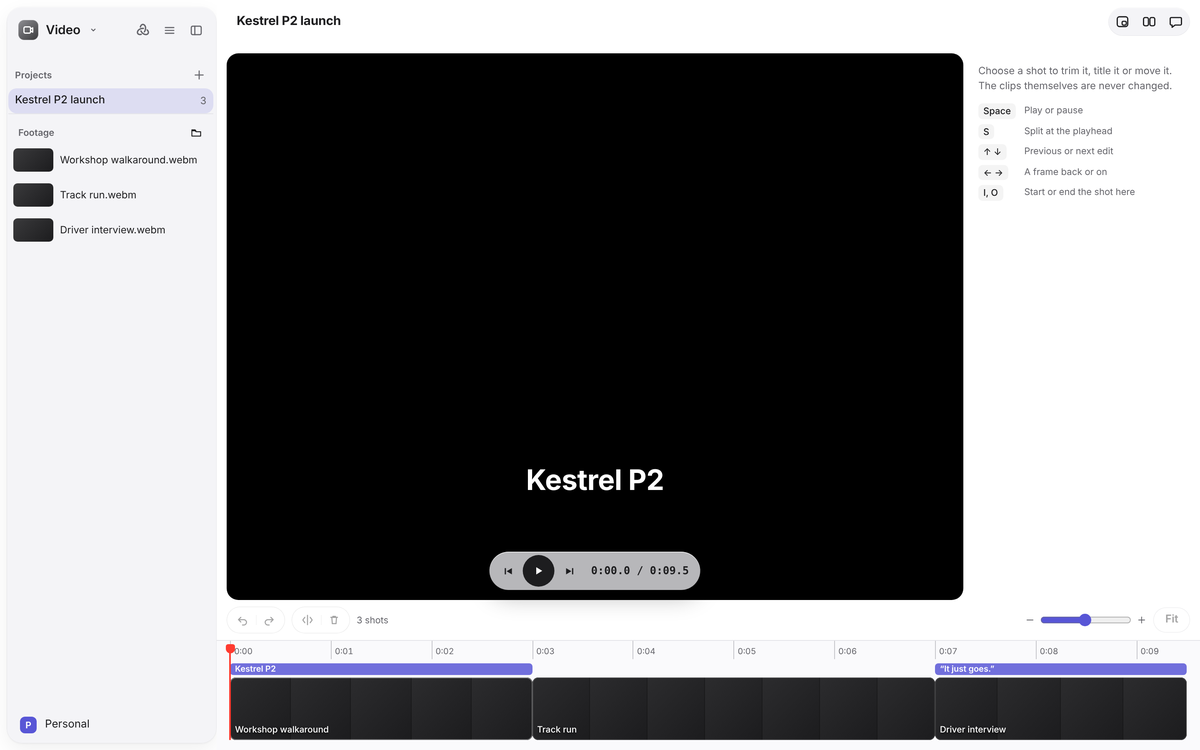
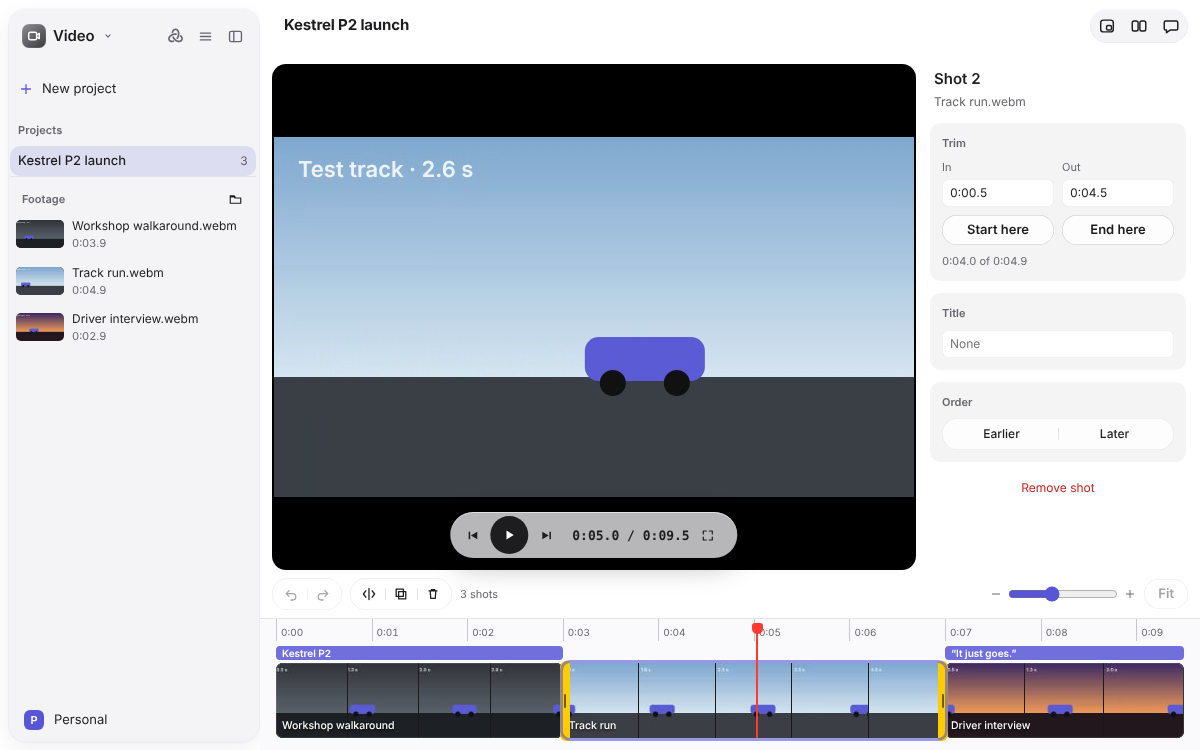
Video: right-click menus, Duplicate, timecode In and Out, full-screen play (#47)
* Video: right-click menus, Duplicate, timecode In and Out, full-screen play

- A shot's right-click menu: Split at the playhead, Duplicate, Add or Edit title,
  Move earlier or later, Remove shot, with their keys. Footage clips get one too.
- Duplicate a shot (Ctrl+D / Cmd+D, the menu, or the inspector).
- In and Out read and take timecode (0:02.5) or plain seconds; Enter or leaving
  the field sets it, Escape puts it back.
- Full screen for the viewer and its transport (F, or the button in the HUD).
- Unit tests for duplicateShot and parseTimecode; e2e covers the menu and fields.
- README screenshot and docs/apps/create.md updated.

Claude-Session: https://claude.ai/code/session_01VRGwo9YNE7aMEAh1Jt7qNZ

* Video: design review fixes (sentence-case headers, New project row, Order capsule)

- Inspector headers in sentence case, as in the sidebars and Home.
- Order is just Earlier and Later, as one two-segment capsule. Duplicate moves to
  the timeline's [split, duplicate, delete] capsule, and after Edit title in the
  shot menu.
- The sidebar starts with a New project row, then Projects, as other apps do.
- README screenshot retaken.

Claude-Session: https://claude.ai/code/session_01VRGwo9YNE7aMEAh1Jt7qNZ

---------

diff --git a/apps/desktop/src/Video.tsx b/apps/desktop/src/Video.tsx
@@ -1,14 +1,17 @@
 import { RowMark } from './RowMark';
 import { FromMobius } from './FromMobius';
 import { EmptyState } from './EmptyState';
-import { useCallback, useEffect, useMemo, useRef, useState, type DragEvent, type FormEvent, type PointerEvent as ReactPointerEvent, type ReactNode } from 'react';
+import { SideNew } from './SideNew';
+import { useCallback, useEffect, useMemo, useRef, useState, type DragEvent, type FormEvent, type MouseEvent as ReactMouseEvent, type PointerEvent as ReactPointerEvent, type ReactNode } from 'react';
+import { createPortal } from 'react-dom';
+import { ContextMenu, type ContextMenuItem } from './ContextMenu';
 import { changedShots, cutLength, locate, parseCut, shotLength, shotStart, timecode, type Cut, type Shot } from './cut-format';
 import { useFileReview } from './useFileReview';
 import type { VideoState } from './useVideo';
 import { ReviewActions, WhyThis } from './ReviewBar';
 import { onCommand } from './commands';
 import { emptyHistory, recorded, redone, undone, type History } from './photo-view';
-import { dropIndex, filmstrip, insertClip, moveShot, nextEdit, removeShot, rulerLabel, rulerMarks, splitAt, trimShot } from './video-view';
+import { dropIndex, duplicateShot, filmstrip, insertClip, moveShot, nextEdit, parseTimecode, removeShot, rulerLabel, rulerMarks, splitAt, trimShot } from './video-view';
 import './video.css';
 
 const Icon = ({ d, fill }: { d: string; fill?: boolean }) => (
@@ -22,6 +25,31 @@ const CLIP_TYPE = 'application/x-mobius-clip';
 const SHOT_TYPE = 'application/x-mobius-shot';
 const FRAME_W = 80;
 const FPS = 30;
+const MOD = () => (window.mobius?.platform === 'darwin' ? '⌘' : 'Ctrl+');
+const FULL = 'M4 8V4h4M16 8V4h-4M4 12v4h4M16 12v4h-4';
+const EXIT_FULL = 'M8 4v4H4M12 4v4h4M8 16v-4H4M12 16v-4h4';
+
+/** A menu where it was asked for, over everything (a glass sidebar would otherwise clip it). */
+type MenuAt = { x: number; y: number; label: string; items: ContextMenuItem[] };
+function Menu({ menu, onClose }: { menu: MenuAt | null; onClose: () => void }) {
+  return menu ? createPortal(<ContextMenu x={menu.x} y={menu.y} label={menu.label} items={menu.items} onClose={onClose} />, document.body) : null;
+}
+
+/** A time in a shot, typed as timecode (1:05.3) or seconds: kept as typed until Enter or leaving the field, Escape puts it back. */
+function TimeField({ label, value, title, onCommit }: { label: string; value: number; title: string; onCommit: (secs: number) => void }) {
+  const [draft, setDraft] = useState<string | null>(null);
+  const shown = draft ?? timecode(value);
+  const bad = draft !== null && parseTimecode(draft) === null;
+  const commit = () => { if (draft === null) return; const got = parseTimecode(draft); setDraft(null); if (got !== null && got !== value) onCommit(got); };
+  return (
+    <label className="video-field" title={title}>
+      <span>{label}</span>
+      <input aria-label={label} inputMode="decimal" spellCheck={false} value={shown} aria-invalid={bad || undefined}
+        onChange={(e) => setDraft(e.target.value)} onBlur={commit}
+        onKeyDown={(e) => { if (e.key === 'Enter') { e.preventDefault(); commit(); } else if (e.key === 'Escape') { e.preventDefault(); setDraft(null); } }} />
+    </label>
+  );
+}
 
 /**
  * Frames from the clips, for the filmstrips and the footage list: read once with a hidden player, a clip at a time,
@@ -89,14 +117,20 @@ export function VideoSidebar({ video, pin, changed }: { video: VideoState; pin?:
   const frame = useFrames(video);
   const submit = async (e: FormEvent) => { e.preventDefault(); if (await video.createProject(name.trim() || 'Project')) { setNaming(false); setName(''); } };
   const addShot = (clip: string) => video.change(insertClip(video.cut, clip, video.lengthOf(clip)));
+  const [menu, setMenu] = useState<MenuAt | null>(null);
+  const clipMenu = (clip: string) => (e: ReactMouseEvent) => {
+    e.preventDefault();
+    setMenu({ x: e.clientX, y: e.clientY, label: clip, items: [
+      { label: 'Add to the end of the cut', run: () => addShot(clip) },
+      { action: 'reveal', label: 'Show in folder', run: () => void video.showFolder(), separated: true },
+    ] });
+  };
   return (
     <aside className="side video-side" aria-label="Video sidebar">
+      <SideNew item="project" onNew={() => setNaming(true)} />
       <div className="side-head">
         <span className="side-title">Projects</span>
-        <span className="side-actions">
-          {pin}
-          <button type="button" className="strip-btn" aria-label="New project" title="New project" onClick={() => setNaming(true)}><Icon d={PLUS} /></button>
-        </span>
+        <span className="side-actions">{pin}</span>
       </div>
       {naming && (
         <form className="notes-name" onSubmit={(e) => void submit(e)}>
@@ -131,6 +165,7 @@ export function VideoSidebar({ video, pin, changed }: { video: VideoState; pin?:
               const poster = c.kind === 'video' && len ? frame(c.name, Math.round(Math.min(len / 2, 1) * 4) / 4) : undefined;
               return (
                 <li key={c.name} className="video-clip" draggable title={`${c.name}\nDrag into the timeline, or add it to the end`}
+                  onContextMenu={clipMenu(c.name)}
                   onDragStart={(e) => { e.dataTransfer.setData(CLIP_TYPE, c.name); e.dataTransfer.effectAllowed = 'copy'; }}>
                   <span className="video-clip-thumb" data-kind={c.kind} aria-hidden="true">{poster ? <img src={poster} alt="" draggable={false} /> : null}</span>
                   <span className="video-clip-text">
@@ -145,15 +180,17 @@ export function VideoSidebar({ video, pin, changed }: { video: VideoState; pin?:
         </section>
       )}
       <FromMobius items={video.projects.filter((p) => changed?.has(p.name)).map((p) => ({ key: p.name, name: p.name, current: video.project === p.name, onOpen: () => void video.open(p.name) }))} />
+      <Menu menu={menu} onClose={() => setMenu(null)} />
     </aside>
   );
 }
 
 /** One shot in the timeline: its filmstrip, its title above it, and handles at its ends to trim it. */
-function ShotBlock({ shot, index, width, selected, playing, proposed, frame, onSelect, onTrim, onDragStart }: {
+function ShotBlock({ shot, index, width, selected, playing, proposed, frame, onSelect, onTrim, onDragStart, onMenu }: {
   shot: Shot; index: number; width: number; selected: boolean; playing: boolean; proposed: boolean;
   frame: (clip: string, t: number) => string | undefined;
   onSelect: () => void; onTrim: (edge: 'in' | 'out') => (e: ReactPointerEvent) => void; onDragStart: (e: DragEvent) => void;
+  onMenu: (e: ReactMouseEvent) => void;
 }) {
   const times = filmstrip(shot, width, FRAME_W);
   return (
@@ -169,6 +206,7 @@ function ShotBlock({ shot, index, width, selected, playing, proposed, frame, onS
       draggable
       onDragStart={onDragStart}
       onClick={onSelect}
+      onContextMenu={onMenu}
     >
       <span className="video-shot-film" aria-hidden="true">
         {times.map((t, i) => { const src = frame(shot.clip, t); return <span key={i} className="video-shot-frame">{src ? <img src={src} alt="" draggable={false} /> : null}</span>; })}
@@ -196,6 +234,10 @@ export function VideoEditor({ video, review }: { video: VideoState; review?: { c
   const [zoom, setZoom] = useState<number | null>(null);
   const [dropAt, setDropAt] = useState<number | null>(null);
   const [width, setWidth] = useState(900);
+  const [menu, setMenu] = useState<MenuAt | null>(null);
+  const [full, setFull] = useState(false);
+  const viewer = useRef<HTMLDivElement>(null);
+  const titleField = useRef<HTMLInputElement>(null);
   const frame = useFrames(video);
   const { cut } = video;
   const file = video.project ? `video/${video.project}/cut.json` : null;
@@ -258,6 +300,33 @@ export function VideoEditor({ video, review }: { video: VideoState; review?: { c
   const seek = (to: number) => { const at = Math.max(0, Math.min(total, to)); const where = locate(cut, at); setT(at); if (where) cue(where.index, where.clipTime, playing); };
   const split = () => { const got = splitAt(cut, t); if (got) { edit(got.cut); setSelected(got.id); } };
   const remove = (id: string) => { edit(removeShot(cut, id)); setSelected(null); };
+  const duplicate = (id: string) => { const got = duplicateShot(cut, id); if (got) { edit(got.cut); setSelected(got.id); } };
+  const nameIt = (id: string) => { setSelected(id); window.requestAnimationFrame(() => titleField.current?.focus()); };
+  // Full screen: the viewer with its transport, as QuickTime and iMovie play.
+  const fullScreen = () => {
+    if (document.fullscreenElement) void document.exitFullscreen().catch(() => undefined);
+    else void viewer.current?.requestFullscreen().catch(() => undefined);
+  };
+  useEffect(() => {
+    const look = () => setFull(document.fullscreenElement !== null && document.fullscreenElement === viewer.current);
+    document.addEventListener('fullscreenchange', look);
+    return () => document.removeEventListener('fullscreenchange', look);
+  }, []);
+  /** A shot's right-click menu: the timeline's tools for that one shot, with their keys. */
+  const shotMenu = (s: Shot, i: number) => (e: ReactMouseEvent) => {
+    e.preventDefault();
+    setSelected(s.id);
+    const start = shotStart(cut, i);
+    const inside = t > start && t < start + shotLength(s);
+    setMenu({ x: e.clientX, y: e.clientY, label: `Shot ${i + 1}`, items: [
+      { label: 'Split at the playhead', keys: 'S', disabled: !inside || splitAt(cut, t) === null, run: split },
+      { action: 'rename', label: s.title ? 'Edit title' : 'Add title', run: () => nameIt(s.id) },
+      { action: 'duplicate', keys: `${MOD()}D`, run: () => duplicate(s.id) },
+      { label: 'Move earlier', disabled: i === 0, run: () => edit(moveShot(cut, s.id, i - 1)), separated: true },
+      { label: 'Move later', disabled: i === cut.shots.length - 1, run: () => edit(moveShot(cut, s.id, i + 1)) },
+      { action: 'delete', label: 'Remove shot', keys: 'Delete', danger: true, separated: true, run: () => remove(s.id) },
+    ] });
+  };
   const setShot = (id: string, tag: string, fn: (s: Shot) => void) => edit({ ...cut, shots: cut.shots.map((s) => { if (s.id !== id) return s; const n = { ...s }; fn(n); n.out = Math.max(n.in + 0.1, n.out); return n; }) }, `${tag}:${id}`);
   const playheadIn = (id: string) => cut.shots[index]?.id === id && player.current ? Math.round(player.current.currentTime * 100) / 100 : null;
 
@@ -268,14 +337,16 @@ export function VideoEditor({ video, review }: { video: VideoState; review?: { c
     const mod = e.ctrlKey || e.metaKey;
     if (mod && (e.key === 'z' || e.key === 'Z')) { e.preventDefault(); if (e.shiftKey) redo(); else undo(); return; }
     if (mod && e.key === 'y') { e.preventDefault(); redo(); return; }
-    if (mod || e.altKey) return;
     const sel = selected && cut.shots.find((s) => s.id === selected);
+    if (mod && (e.key === 'd' || e.key === 'D') && !e.shiftKey) { if (sel) { e.preventDefault(); duplicate(sel.id); } return; }
+    if (mod || e.altKey) return;
     if (e.key === ' ' || e.key === 'k') { if (e.target instanceof HTMLButtonElement && e.key === ' ') return; e.preventDefault(); toggle(); }
     else if (e.key === 'ArrowLeft' || e.key === 'ArrowRight') { e.preventDefault(); seek(t + (e.key === 'ArrowRight' ? 1 : -1) * (e.shiftKey ? 1 : 1 / FPS)); }
     else if (e.key === 'ArrowUp' || e.key === 'ArrowDown') { e.preventDefault(); const to = nextEdit(cut, t, e.key === 'ArrowDown' ? 1 : -1); if (to !== null) seek(to); }
     else if (e.key === 'Home') { e.preventDefault(); seek(0); }
     else if (e.key === 'End') { e.preventDefault(); seek(total); }
     else if (e.key === 's' || e.key === 'S') { e.preventDefault(); split(); }
+    else if (e.key === 'f' || e.key === 'F') { if (shot) { e.preventDefault(); fullScreen(); } }
     else if ((e.key === 'Delete' || e.key === 'Backspace') && sel) { e.preventDefault(); remove(sel.id); }
     else if ((e.key === 'i' || e.key === 'o') && sel) { const at = playheadIn(sel.id); if (at !== null) { e.preventDefault(); setShot(sel.id, e.key, (s) => { if (e.key === 'i') s.in = at; else s.out = at; }); } }
     else if (e.key === 'Escape' && sel) setSelected(null);
@@ -369,7 +440,7 @@ export function VideoEditor({ video, review }: { video: VideoState; review?: { c
   return (
     <section ref={page} className="video-page" aria-label="Video" onDragOver={(e) => e.preventDefault()} onDrop={onDrop}>
       <div className="video-top">
-        <div className="video-viewer">
+        <div ref={viewer} className="video-viewer" data-full={full || undefined}>
           <div className="video-screen">
             <video ref={player} className="video-player" aria-label="Viewer" playsInline onTimeUpdate={onTime} onEnded={onTime} onError={() => setUnplayable(true)} onLoadedMetadata={() => setUnplayable(false)} onClick={toggle} />
             {shot?.title && <div className="video-title">{shot.title}</div>}
@@ -381,6 +452,7 @@ export function VideoEditor({ video, review }: { video: VideoState; review?: { c
             <button type="button" className="video-play" aria-label={playing ? 'Pause' : 'Play'} title={`${playing ? 'Pause' : 'Play'} (Space)`} disabled={!shot} onClick={toggle}><Icon d={playing ? PAUSE : PLAY} fill /></button>
             <button type="button" className="strip-btn" aria-label="Next edit" title="Next edit (↓)" disabled={!shot} onClick={() => { const to = nextEdit(cut, t, 1); if (to !== null) seek(to); }}><Icon d="M13.5 5h2v10h-2zM4 5l8.5 5L4 15z" fill /></button>
             <span className="video-time" aria-label="Time">{`${timecode(t)} / ${timecode(total)}`}</span>
+            <button type="button" className="strip-btn" aria-label={full ? 'Exit full screen' : 'Full screen'} title={`${full ? 'Exit full screen' : 'Full screen'} (F)`} disabled={!shot} onClick={fullScreen}><Icon d={full ? EXIT_FULL : FULL} /></button>
           </div>
         </div>
         <aside className="video-inspector" aria-label="Shot">
@@ -393,8 +465,8 @@ export function VideoEditor({ video, review }: { video: VideoState; review?: { c
               <section className="video-group" aria-label="Trim">
                 <h3>Trim</h3>
                 <div className="video-fields">
-                  <label className="video-field"><span>In</span><input aria-label="In" type="number" step={0.1} min={0} value={sel.in} onChange={(e) => setShot(sel.id, 'in', (s) => { s.in = Math.max(0, Number(e.target.value) || 0); })} /></label>
-                  <label className="video-field"><span>Out</span><input aria-label="Out" type="number" step={0.1} min={0} value={sel.out} onChange={(e) => setShot(sel.id, 'out', (s) => { s.out = Math.min(video.lengthOf(s.clip) || Infinity, Number(e.target.value) || 0); })} /></label>
+                  <TimeField key={`in-${sel.id}`} label="In" value={sel.in} title="Where the shot starts in its clip: 0:02.5, or seconds" onCommit={(v) => setShot(sel.id, 'in', (s) => { s.in = Math.max(0, Math.min(v, s.out - 0.1)); })} />
+                  <TimeField key={`out-${sel.id}`} label="Out" value={sel.out} title="Where the shot ends in its clip: 0:06.0, or seconds" onCommit={(v) => setShot(sel.id, 'out', (s) => { s.out = Math.min(video.lengthOf(s.clip) || Infinity, v); })} />
                 </div>
                 <div className="video-pair">
                   <button type="button" className="btn" disabled={playheadIn(sel.id) === null} title="Start the shot at the playhead (I)" onClick={() => { const at = playheadIn(sel.id); if (at !== null) setShot(sel.id, 'in', (s) => { s.in = at; }); }}>Start here</button>
@@ -404,13 +476,13 @@ export function VideoEditor({ video, review }: { video: VideoState; review?: { c
               </section>
               <section className="video-group" aria-label="Title">
                 <h3>Title</h3>
-                <input className="video-text" aria-label="Title" value={sel.title} maxLength={200} placeholder="None" onChange={(e) => setShot(sel.id, 'title', (s) => { s.title = e.target.value; })} />
+                <input ref={titleField} className="video-text" aria-label="Title" value={sel.title} maxLength={200} placeholder="None" onChange={(e) => setShot(sel.id, 'title', (s) => { s.title = e.target.value; })} />
               </section>
               <section className="video-group" aria-label="Order">
                 <h3>Order</h3>
-                <div className="video-pair">
-                  <button type="button" className="btn" disabled={selIndex <= 0} onClick={() => edit(moveShot(cut, sel.id, selIndex - 1))}>Earlier</button>
-                  <button type="button" className="btn" disabled={selIndex >= cut.shots.length - 1} onClick={() => edit(moveShot(cut, sel.id, selIndex + 1))}>Later</button>
+                <div className="cap-group video-order">
+                  <button type="button" className="strip-btn" disabled={selIndex <= 0} title="Move the shot earlier" onClick={() => edit(moveShot(cut, sel.id, selIndex - 1))}>Earlier</button>
+                  <button type="button" className="strip-btn" disabled={selIndex >= cut.shots.length - 1} title="Move the shot later" onClick={() => edit(moveShot(cut, sel.id, selIndex + 1))}>Later</button>
                 </div>
               </section>
               <button type="button" className="video-remove" onClick={() => remove(sel.id)}>Remove shot</button>
@@ -424,6 +496,8 @@ export function VideoEditor({ video, review }: { video: VideoState; review?: { c
                 <dt>↑ ↓</dt><dd>Previous or next edit</dd>
                 <dt>← →</dt><dd>A frame back or on</dd>
                 <dt>I, O</dt><dd>Start or end the shot here</dd>
+                <dt>{`${MOD()}D`}</dt><dd>Duplicate the shot</dd>
+                <dt>F</dt><dd>Full screen</dd>
               </dl>
             </div>
           )}
@@ -444,6 +518,7 @@ export function VideoEditor({ video, review }: { video: VideoState; review?: { c
         </div>
         <div className="cap-group">
           <button type="button" className="strip-btn" aria-label="Split at the playhead" title="Split at the playhead (S)" disabled={!canSplit} onClick={split}><Icon d="M10 3v14M6 6l-3 4 3 4M14 6l3 4-3 4" /></button>
+          <button type="button" className="strip-btn" aria-label="Duplicate shot" title={`Duplicate the chosen shot (${MOD()}D)`} disabled={!sel} onClick={() => sel && duplicate(sel.id)}><Icon d="M4 4h9v9H4zM7 7h9v9H7z" /></button>
           <button type="button" className="strip-btn" aria-label="Remove shot" title="Remove the chosen shot (Delete)" disabled={!sel} onClick={() => sel && remove(sel.id)}><Icon d="M5 6h10M8 6V4.5h4V6M6.5 6l.7 9.5h5.6l.7-9.5" /></button>
         </div>
         <span className="video-meta">{`${cut.shots.length} ${cut.shots.length === 1 ? 'shot' : 'shots'}${video.saved ? '' : ' · Saving…'}`}</span>
@@ -465,13 +540,15 @@ export function VideoEditor({ video, review }: { video: VideoState; review?: { c
               <ShotBlock key={s.id} shot={s} index={i} width={Math.max(12, shotLength(s) * pxPerSec)} selected={selected === s.id} playing={index === i} proposed={changed.has(s.id)} frame={frame}
                 onSelect={() => { setSelected(s.id); seek(shotStart(cut, i)); }}
                 onTrim={trimDown(s.id)}
-                onDragStart={(e) => { e.dataTransfer.setData(SHOT_TYPE, s.id); e.dataTransfer.effectAllowed = 'move'; }} />
+                onDragStart={(e) => { e.dataTransfer.setData(SHOT_TYPE, s.id); e.dataTransfer.effectAllowed = 'move'; }}
+                onMenu={shotMenu(s, i)} />
             ))}
             {dropAt !== null && <span className="video-drop" style={{ left: shotStart(cut, dropAt) * pxPerSec }} aria-hidden="true" />}
           </div>
           <span className="video-playhead" style={{ left: t * pxPerSec }} aria-hidden="true" onPointerDown={scrubDown} />
         </div>
       </div>
+      <Menu menu={menu} onClose={() => setMenu(null)} />
     </section>
   );
 }

diff --git a/apps/desktop/src/video.css b/apps/desktop/src/video.css
@@ -27,7 +27,7 @@
 .video-inspector-head h2 { margin: 0; font-size: var(--fs-lg, 15px); font-weight: var(--fw-semibold, 600); }
 .video-inspector-head span { color: var(--muted); font-size: var(--fs-sm); white-space: nowrap; overflow: hidden; text-overflow: ellipsis; }
 .video-group { display: flex; flex-direction: column; gap: var(--sp-2); padding: var(--sp-3); border-radius: var(--radius-group); background: var(--field); }
-.video-group h3 { margin: 0; color: var(--muted); font-size: var(--fs-xs); font-weight: var(--fw-semibold, 600); text-transform: uppercase; letter-spacing: 0.04em; }
+.video-group h3 { margin: 0; color: var(--muted); font-size: var(--fs-xs); font-weight: var(--fw-semibold, 600); }
 .video-fields { display: grid; grid-template-columns: 1fr 1fr; gap: var(--sp-2); }
 .video-field { display: flex; flex-direction: column; gap: 3px; font-size: var(--fs-xs); color: var(--muted); }
 .video-field input, .video-text { width: 100%; height: 28px; padding: 0 8px; border: 0; border-radius: 7px; background: var(--bg); color: var(--ink); font: inherit; font-size: var(--fs-sm); font-variant-numeric: tabular-nums; box-shadow: inset 0 0 0 0.5px var(--line); }
@@ -103,3 +103,11 @@
 /* A narrow window keeps the inspector, narrower: trimming and titling need it. */
 @media (max-width: 1100px) { .video-top { grid-template-columns: minmax(0, 1fr) 200px; } .video-hud .video-time { font-size: 12px; } }
 @media (prefers-reduced-motion: reduce) { .video-play { transition: none; } }
+
+/* Round 1 polish: Earlier and Later as one capsule, a field that does not read as a time, and the viewer full screen. */
+.video-order { align-self: stretch; }
+.video-order > .strip-btn { flex: 1; padding: 0 10px; font: inherit; font-size: var(--fs-sm); font-weight: var(--fw-medium); }
+.video-field input[aria-invalid] { box-shadow: inset 0 0 0 1px var(--danger); }
+.video-viewer:fullscreen { background: #000; }
+.video-viewer:fullscreen .video-screen { border-radius: 0; }
+.video-viewer:fullscreen .video-hud { bottom: var(--sp-6); }

diff --git a/apps/desktop/src/video-view.test.ts b/apps/desktop/src/video-view.test.ts
@@ -1,6 +1,6 @@
 import { describe, expect, it } from 'vitest';
 import type { Cut } from './cut-format';
-import { dropIndex, editPoints, filmstrip, insertClip, moveShot, nextEdit, removeShot, rulerLabel, rulerMarks, splitAt, trimShot } from './video-view';
+import { dropIndex, duplicateShot, editPoints, filmstrip, insertClip, moveShot, nextEdit, parseTimecode, removeShot, rulerLabel, rulerMarks, splitAt, trimShot } from './video-view';
 
 const cut: Cut = { version: 1, shots: [
   { id: 's1', clip: 'a.mp4', in: 1, out: 4, title: 'Hello' },
@@ -56,5 +56,33 @@ describe('the timeline', () => {
   it('picks a frame for each part of a shot', () => {
     expect(filmstrip(cut.shots[0]!, 180, 60)).toEqual([1.5, 2.5, 3.5]);
     expect(filmstrip(cut.shots[1]!, 20, 60)).toEqual([1]);
+  });
+});
+
+describe('duplicateShot', () => {
+  it('puts a copy with a fresh id right after the shot, and keeps its trim and title', () => {
+    const got = duplicateShot(cut, cut.shots[0]!.id)!;
+    expect(got.cut.shots).toHaveLength(cut.shots.length + 1);
+    const copy = got.cut.shots[1]!;
+    expect(copy.id).toBe(got.id);
+    expect(cut.shots.some((s) => s.id === copy.id)).toBe(false);
+    expect({ ...copy, id: '' }).toEqual({ ...cut.shots[0]!, id: '' });
+    expect(got.cut.shots[2]).toBe(cut.shots[1]);
+  });
+  it('is null for a shot that is not there', () => expect(duplicateShot(cut, 'nope')).toBeNull());
+});
+
+describe('parseTimecode', () => {
+  it('reads timecode and plain seconds', () => {
+    expect(parseTimecode('1:05.3')).toBe(65.3);
+    expect(parseTimecode('0:05')).toBe(5);
+    expect(parseTimecode(' 2.5 ')).toBe(2.5);
+    expect(parseTimecode('7')).toBe(7);
+    expect(parseTimecode('1:02:03.5')).toBe(3723.5);
+    expect(parseTimecode('0:02,5')).toBe(2.5);
+    expect(parseTimecode('.5')).toBe(0.5);
+  });
+  it('is null for anything else', () => {
+    for (const bad of ['', 'abc', '1:', ':5', '-1', '1.5:00', '1:2:3:4', '5s']) expect(parseTimecode(bad)).toBeNull();
   });
 });

diff --git a/apps/desktop/e2e/video.spec.ts b/apps/desktop/e2e/video.spec.ts
@@ -56,7 +56,11 @@ test('clips are played through the media address, added to the cut as shots, tri
 
   await timeline().getByRole('option', { name: /^Shot 2: sunset\.webm/ }).click();
   const shot = shell().getByRole('complementary', { name: 'Shot' });
-  await shot.getByRole('spinbutton', { name: 'Out' }).fill('2.5');
+  // In and Out read as timecode, and take it or plain seconds.
+  await expect(shot.getByRole('textbox', { name: 'Out' })).toHaveValue('0:05.0');
+  await shot.getByRole('textbox', { name: 'Out' }).fill('2.5');
+  await shot.getByRole('textbox', { name: 'Out' }).press('Enter');
+  await expect(shot.getByRole('textbox', { name: 'Out' })).toHaveValue('0:02.5');
   await shot.getByRole('textbox', { name: 'Title' }).fill('Sunset');
   await shot.getByRole('button', { name: 'Earlier' }).click();
   await expect.poll(() => saved().shots.map((s) => [s.clip, s.out, (s as { title?: string }).title ?? ''])).toEqual([['sunset.webm', 2.5, 'Sunset'], ['terrace.webm', 5, '']]);
@@ -66,6 +70,11 @@ test('clips are played through the media address, added to the cut as shots, tri
   await shell().getByRole('toolbar', { name: 'Transport' }).getByRole('button', { name: 'Play' }).click();
   await expect(shell().getByLabel('Time', { exact: true })).not.toHaveText(before ?? '', { timeout: 5000 });
   await expect(shell().getByRole('status').filter({ hasText: 'cannot be played' })).toHaveCount(0);
+
+  // A shot's right-click menu duplicates it, the copy right after it.
+  await timeline().getByRole('option', { name: /^Shot 1: sunset\.webm/ }).click({ button: 'right' });
+  await shell().getByRole('menu', { name: 'Shot 1' }).getByRole('menuitem', { name: 'Duplicate' }).click();
+  await expect.poll(() => saved().shots.map((s) => [s.clip, s.out, (s as { title?: string }).title ?? ''])).toEqual([['sunset.webm', 2.5, 'Sunset'], ['sunset.webm', 2.5, 'Sunset'], ['terrace.webm', 5, '']]);
 });
 
 test('a rough cut from Mobius is shown dashed, and kept', async () => {

diff --git a/apps/desktop/src/video-view.ts b/apps/desktop/src/video-view.ts
@@ -108,3 +108,25 @@ export function filmstrip(shot: Shot, widthPx: number, frameWidth: number): numb
   // Rounded to a quarter second, so neighbouring shots of the same clip share frames.
   return Array.from({ length: n }, (_, i) => Math.round((shot.in + ((i + 0.5) / n) * len) * 4) / 4);
 }
+
+/** The cut with a copy of a shot put in right after it, and the copy's id; null when there is no such shot. */
+export function duplicateShot(cut: Cut, id: string): { cut: Cut; id: string } | null {
+  const i = cut.shots.findIndex((s) => s.id === id);
+  if (i < 0) return null;
+  const copy = { ...cut.shots[i]!, id: freshShotId(cut) };
+  const shots = [...cut.shots];
+  shots.splice(i + 1, 0, copy);
+  return { cut: { ...cut, shots }, id: copy.id };
+}
+
+/**
+ * Seconds from what someone typed in a timecode field: "1:05.3", "0:05", "65.3" or "5". Null when it is not a time.
+ * Hours are allowed ("1:02:03.5"), as is a comma for the decimal point.
+ */
+export function parseTimecode(text: string): number | null {
+  const parts = text.trim().replace(',', '.').split(':');
+  if (parts.length === 0 || parts.length > 3 || parts.some((p) => !/^\d+(\.\d*)?$|^\.\d+$/.test(p))) return null;
+  if (parts.slice(0, -1).some((p) => p.includes('.'))) return null;
+  const secs = parts.reduce((sum, p) => sum * 60 + Number(p), 0);
+  return Number.isFinite(secs) ? round(secs) : null;
+}

diff --git a/README.md b/README.md
@@ -150,7 +150,7 @@ Mobius's own apps, always there.
 <td width="50%" valign="top"><img src="docs/readme/apps/music.png" alt="The Music app in Mobius"><br><b>Music</b> · A small studio for writing songs as notes: tracks, piano roll, mixer.<br><sub>Write a tune or a sting. Mobius reads and writes notes, so it can add a bassline.</sub></td>
 </tr>
 <tr>
-<td width="50%" valign="top"><img src="docs/readme/apps/video.png" alt="The Video app in Mobius"><br><b>Video</b> · Cut footage into a short film on a timeline.<br><sub>Trim, split and order shots in a filmstrip timeline, and ask Mobius about the cut.</sub></td>
+<td width="50%" valign="top"><img src="docs/readme/apps/video.png" alt="The Video app in Mobius"><br><b>Video</b> · Cut footage into a short film on a timeline.<br><sub>Trim, split, duplicate and order shots in a filmstrip timeline, and ask Mobius about the cut.</sub></td>
 <td width="50%" valign="top"><img src="docs/readme/apps/code.png" alt="The Code app in Mobius"><br><b>Code</b> · A code editor for projects in your workspace, with git.<br><sub>Edit, find, run tests and commit. Mobius proposes changes you review line by line.</sub></td>
 </tr>
 <tr>

diff --git a/docs/apps/create.md b/docs/apps/create.md
@@ -82,8 +82,12 @@ Cut footage into a short film.
 ![The Video app in Mobius](../readme/apps/video.png)
 
 - **Projects** in the sidebar, each with its footage. Add a clip to the cut or drag it into the timeline.
-- **The timeline** shows each shot as a filmstrip. Trim from either end, split, move and remove shots.
-- **The viewer** plays the shots in order, and the chosen shot's details sit beside it.
+- **The timeline** shows each shot as a filmstrip. Trim from either end, split, duplicate, move and remove shots.
+  Right-click a shot for its menu, or a clip in Footage to add it or show its folder.
+- **The viewer** plays the shots in order, and full screen with F. The chosen shot's details sit beside it, with In
+  and Out as timecode (type `0:02.5`, or plain seconds).
+- **Keys** as in other editors: Space plays, S splits, I and O set the shot's start and end at the playhead,
+  Ctrl+D (⌘D on a Mac) duplicates, the arrows step a frame and Up and Down jump between edits.
 
 **Kept in:** `workspace/video/<project>/`, the cut as `cut.json`. Your clips are never changed.
 
